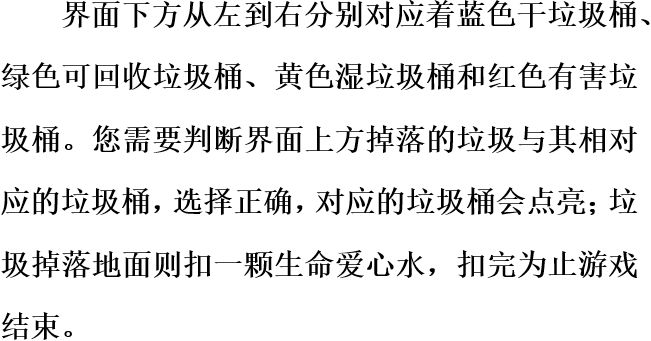
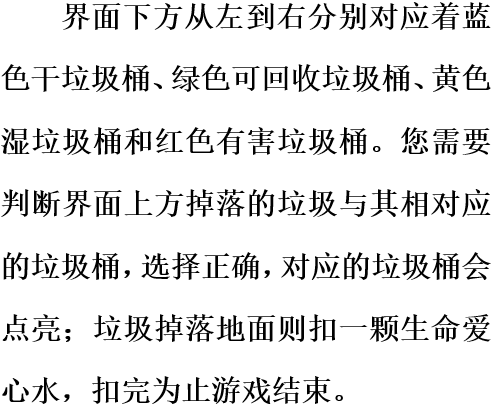
changed some images and now the garbages falls from the cloud, the red hearts in the tip page zoom out one by one.

diff --git a/miniprogram/js/main.js b/miniprogram/js/main.js
@@ -28,6 +28,9 @@ let introBtn = new Button(null, 'images/intro/start.png')
 
 let normalTip = new Image()
 normalTip.src = 'images/tip/normal.png'
+let lifeheart = new Array(5)
+for (let i = 0; i < 5; i++) 
+  lifeheart[i] = new Button(null, 'images/garbages/heart.png')
 let diffTip = new Image()
 diffTip.src = 'images/tip/diff.png'
 let normalTipText = new Image()
@@ -479,6 +482,11 @@ export default class Main {
         this.music.playTouch()
         button.onClick(() => {
           databus.mode = 0
+          for(let i = 0; i < 2; i++) {
+            lifeheart[i].beginAnimation(false, (x) => {
+              return (-8*x*x + 160*x + 200) / 1000
+            }, 0, 0,11 * i)
+          }
           this.pause(this.tipTouch, this.tip_render)
         }, zoom)
         return;
@@ -498,6 +506,11 @@ export default class Main {
         this.music.playTouch()
         button.onClick(() => {
           databus.mode = 1
+          for (let i = 0; i < 5; i++) {
+            lifeheart[i].beginAnimation(false, (x) => {
+              return (-8 * x * x + 160 * x + 200) / 1000
+            }, 0, 0, 11 * i)
+          }
           this.pause(this.tipTouch, this.tip_render)
         }, zoom)
         return;
@@ -633,7 +646,8 @@ export default class Main {
     if(databus.mode == 0) img = normalTip
     else img = diffTip
     let drawWidth = 2 * screenWidth / 3
-    let drawHeight = (2 * img.width / 3) * img.height / img.width
+    let drawHeight = (2 * screenWidth / 3) * img.height / img.width
+    // console.log(`initial rate: ${img.width / img.height}, cast rate: ${drawWidth / drawHeight}`)
     ctx.drawImage(
       img,
       0, 0, img.width, img.height,
@@ -644,7 +658,7 @@ export default class Main {
     if (databus.mode == 0) img = normalTipText
     else img = diffTipText
     drawWidth = 5 * screenWidth / 6
-    drawHeight = (5 * img.width / 6) * img.height / img.width
+    drawHeight = (5 * screenWidth / 6) * img.height / img.width
     ctx.drawImage(
       img,
       0, 0, img.width, img.height,
@@ -652,14 +666,25 @@ export default class Main {
       drawWidth, drawHeight
     )
 
-    img = databus.images.heart
-    ctx.drawImage(
-      img,
-      0, 0, img.width, img.height,
-      screenWidth - img.width, screenHeight - img.height,
-      img.width, img.height
-    )
+    let count = 0;
+    if(databus.mode == 0) count = 2
+    else count = 5
+    for(let i = 0; i < count; i++) {
+      let button = lifeheart[i]
+      button.drawOn(
+        ctx, 
+        0, 0, button.img.width, button.img.height,
+        screenWidth - button.img.width * (i + 1), screenHeight - button.img.height,
+        button.img.width, button.img.height
+      )
+    }
 
+    //play the animations
+    databus.animations.forEach((ani) => {
+      if (ani.isPlaying) {
+        ani.aniZoom(ctx)
+      }
+    })
   }
 
   /**

diff --git a/miniprogram/js/base/animation.js b/miniprogram/js/base/animation.js
@@ -76,12 +76,15 @@ export default class Animation extends Sprite {
    * @param {number} count: the frame number.
    * @param {function} handler: the touch event handler.
    */
-  initZoom(count, handler, handleFrame, move, zoom_x = 0, zoom_y = 0) {
+  initZoom(count, handler, handleFrame, move, zoom_x = 0, zoom_y = 0, delay = 0) {
     this.imgList.push(this.img)
     this.count = count
     this.handler = handler
     this.handleFrame = handleFrame
     this.zoom = move
+    this.delay = delay
+    if(delay != 0) this.delayed = false
+    else this.delayed = true
 
     this.zoom_x = zoom_x
     this.zoom_y = zoom_y
@@ -90,34 +93,39 @@ export default class Animation extends Sprite {
 
   // 将播放中的帧绘制到canvas上
   aniRender(ctx) {
-    ctx.drawImage(
-      this.imgList[this.index],
-      this.x,
-      this.y,
-      this.width  * 1.2,
-      this.height * 1.2
-    )
+    if(this.delayed) {
+      ctx.drawImage(
+        this.imgList[this.index],
+        this.x,
+        this.y,
+        this.width  * 1.2,
+        this.height * 1.2
+      )
+    }
   }
 
   /** 
    * this animation is specially made for the buttons
    * it can zoom it according the passing function and move it lineaily.
+   * the zoom function's index ranges from 0 to 10, and the value ranges from 0 to 1.
    * @param {Context} ctx: the drawing context.
    */
   aniZoom(ctx) {
-    let k = this.zoom(10*(this.index + 1)/this.count)
-    let img = this.imgList[0]
+    if(this.delayed) {
+      let k = this.zoom(10*(this.index + 1)/this.count)
+      let img = this.imgList[0]
 
-    this.x += this.zoom_x / this.count
-    this.y += this.zoom_y / this.count
+      this.x += this.zoom_x / this.count
+      this.y += this.zoom_y / this.count
 
-    ctx.drawImage(
-      img,
-      this.center_x - k * img.width/2,
-      this.center_y - k * img.height/2,
-      k * img.width,
-      k * img.height
-    )
+      ctx.drawImage(
+        img,
+        this.center_x - k * img.width/2,
+        this.center_y - k * img.height/2,
+        k * img.width,
+        k * img.height
+      )
+    }
   }
 
   // 播放预定的帧动画
@@ -151,8 +159,16 @@ export default class Animation extends Sprite {
   // 帧遍历
   frameLoop() {
     this.index++
-
-    if(this.index == this.handleFrame && this.handler != null) this.handler()
+    if(!this.delayed) {
+      if(this.index < this.delay) return;
+      else {
+        this.delayed = true
+        this.index = 0
+        return;
+      }
+    }
+    if(this.delayed && this.index == this.handleFrame &&
+     this.handler != null) this.handler()
 
     if ( this.index > this.count - 1 ) {
       if ( this.loop ) {

diff --git a/miniprogram/js/npc/enemy.js b/miniprogram/js/npc/enemy.js
@@ -9,6 +9,10 @@ const screenWidth = window.innerWidth
 const screenHeight = window.innerHeight
 const PLAYER_WIDTH = 25 * 2
 const PLAYER_HEIGHT = 63 * 2
+let databus = new DataBus()
+const bornArea = [50 - ENEMY_WIDTH / 2, 
+  screenWidth / 2 - ENEMY_WIDTH / 2, 
+  screenWidth - 30 - ENEMY_WIDTH / 2]
 
 const normalGabbage = new Array(
   {
@@ -62,7 +66,7 @@ const __ = {
   move: Symbol('move')
 }
 
-let databus = new DataBus()
+
 
 function rnd(start, end) {
   return Math.floor(Math.random() * (end - start) + start)
@@ -105,8 +109,8 @@ export default class Enemy extends Animation {
     }
 
     this.color_bright = 0
-    this.x = rnd(0, window.innerWidth - ENEMY_WIDTH)
-    this.y = -this.height
+    this.x = bornArea[rnd(0, 3)]
+    this.y = screenHeight / 15 + 30
     this[__.speed] = speed
     this[__.move] = 0
     this.isLiving = 0
@@ -144,7 +148,7 @@ export default class Enemy extends Animation {
     this.x += this[__.move]
 
     // 对象回收
-    if (this.y > (window.innerHeight - PLAYER_HEIGHT / 2 - 30)) {
+    if (this.y > (window.innerHeight - PLAYER_HEIGHT / 2 - 10)) {
       if (this.isLiving == 0){
         this.isLiving = -1
       }

diff --git a/miniprogram/openDataContext/index.js b/miniprogram/openDataContext/index.js
@@ -50,13 +50,28 @@ wx.onMessage(data => {
 function drawRankList(data) {
   new Promise((resolve, reject) => {
     let rankBg = wx.createImage()
-    rankBg.src = 'images/rank/background.png'
+    rankBg.src = 'images/start/bg.png'
     rankBg.onload = () => resolve(rankBg)
   }).then(rankBg => {
     ctx.drawImage(
       rankBg,
       0, 0,
       screenWidth, screenHeight
+    )
+  })
+
+  new Promise((resolve, reject) => {
+    let title = wx.createImage()
+    title.src = 'images/rank/title.png'
+    title.onload = () => resolve(title)
+  }).then(title => {
+    let drawWidth = 2 * screenWidth / 3
+    let drawHeight = (2 * screenWidth / 3) * title.height / title.width
+    ctx.drawImage(
+      title,
+      0, 0, title.width, title.height,
+      screenWidth / 2 - drawWidth / 2, screenHeight / 12 - drawHeight / 2,
+      drawWidth, drawHeight
     )
   })
   
@@ -71,7 +86,6 @@ function drawRankList(data) {
       screenHeight / 4 + 15 - throne.height,
       throne.width, throne.height
     )
-    console.log('reached!')
   })
 
   new Promise((resolve, reject) => {

diff --git a/miniprogram/js/runtime/background.js b/miniprogram/js/runtime/background.js
@@ -52,21 +52,21 @@ export default class BackGround extends Sprite {
     ctx.drawImage(
       img,
       0, 0, img.width, img.height,
-      0, screenHeight/10, img.width, img.height
+      0, screenHeight/15, img.width, img.height
     )
 
     img = databus.images.cloudright
     ctx.drawImage(
       img,
       0, 0, img.width, img.height,
-      screenWidth - img.width, screenHeight / 10, img.width, img.height
+      screenWidth - img.width, screenHeight / 15, img.width, img.height
     )
 
     img = databus.images.cloudcenter
     ctx.drawImage(
       img,
       0, 0, img.width, img.height,
-      screenWidth / 2 - img.width / 2, screenHeight / 10, img.width, img.height
+      screenWidth / 2 - img.width / 2, screenHeight / 15, img.width, img.height
     )
   }
 }

diff --git a/miniprogram/js/display/image.js b/miniprogram/js/display/image.js
@@ -5,9 +5,9 @@ const ID = 'cloud://classification-test-d20ada.636c-classification-test-d20ada/'
 export default class ImageManager {
   constructor() {
     this.bg = new Image()
-    this.imageGet(this.bg, ID + 'bg.png', 'bg.png')
+    this.imageGet(this.bg, ID + 'bg1.png', 'bg1.png')
     this.tip = new Image()
-    this.imageGet(this.tip, ID + 'Tip.png', 'abc.png')
+    this.imageGet(this.tip, ID + 'Tip.png', 'Tip.png')
     this.stars = new Image()
     this.imageGet(this.stars, ID + 'stars.png', 'stars.png')
     

diff --git a/miniprogram/js/player/ashcan.js b/miniprogram/js/player/ashcan.js
@@ -33,8 +33,8 @@ export default class Ashcan {
 
     for(let i = 0; i < this.canNumber; i++) {
       this.ashcans[i] = new Sprite(cans[i], PLAYER_WIDTH, PLAYER_HEIGHT,
-        (i + 1) * (screenWidth - 10) / (this.canNumber + 1) + 5 - PLAYER_WIDTH / 2, 
-        screenHeight - PLAYER_HEIGHT - 30)
+        (i + 1) * (screenWidth) / (this.canNumber + 1) - PLAYER_WIDTH / 2, 
+        screenHeight - PLAYER_HEIGHT - 10)
     }
 
     // 玩家默认处于屏幕底部居中位置

diff --git a/miniprogram/js/display/button.js b/miniprogram/js/display/button.js
@@ -48,8 +48,8 @@ export default class Button extends Animation {
     this.playAnimation()
   }
 
-  beginAnimation(isLoop, move, zoom_x = 0, zoom_y = 0) {
-    this.initZoom(100, null, 0, move, zoom_x, zoom_y)
+  beginAnimation(isLoop, move, zoom_x = 0, zoom_y = 0, delay = 0) {
+    this.initZoom(100, null, 0, move, zoom_x, zoom_y, delay)
     this.playAnimation(0, isLoop)
   }
 }
